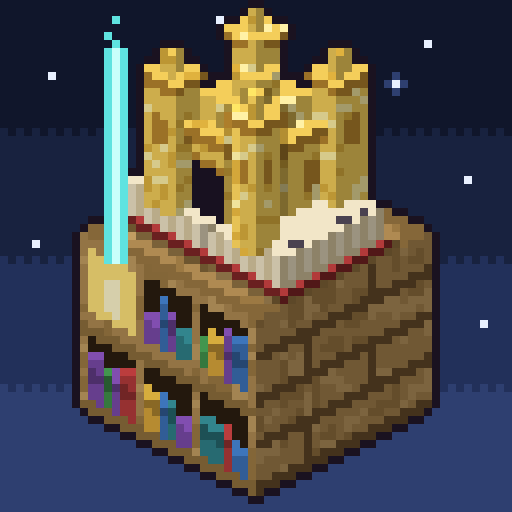
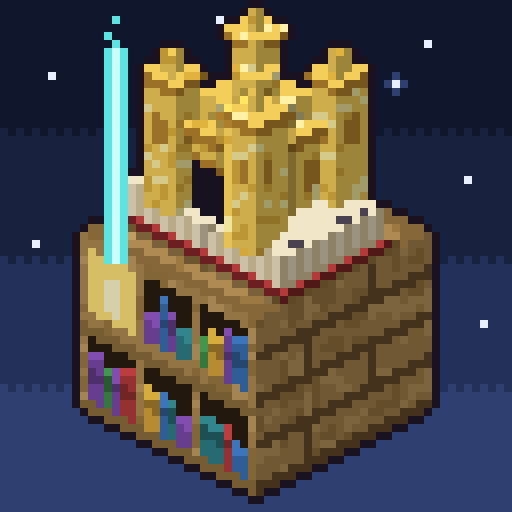
图标：前塔加粗到 3 格，塔帽露出来，和其他三座看起来一样大

Changed region(s): [[0.4062, 0.1562, 0.5938, 0.5]]

diff --git a/art/icon/IconArt.java b/art/icon/IconArt.java
@@ -103,13 +103,17 @@ public final class IconArt {
 		boxes.add(new Box(7.5, 7.5, z + 12, 8.5, 8.5, z + 15, gold));          // 顶尖
 		// 四座角塔：主殿四个角各一座
 		for (double[] c : new double[][]{{3, 3}, {10.5, 3}, {3, 10.5}, {10.5, 10.5}}) {
-			double x = c[0], y = c[1];
+			double x = c[0], y = c[1], w = 2.5;
 			if (x > 10 && y > 10) {
-				frontTower = boxes.size(); // 前角这座挡在主殿正前方，要和后面描一道分界（见 separateFrontTower）
+				frontTower = boxes.size(); // 前角这座挡在主殿正前方，要和后面区分开（见 separateFrontTower）
+				// 它的塔帽叠在同样是金色的屋顶前面，轮廓看不出来，同样大小会显得细：加粗一点，外角不动、往里长
+				w = 3;
+				x = y = 13 - w;
 			}
-			boxes.add(new Box(x, y, z, x + 2.5, y + 2.5, z + 11, IconArt::tower));
-			boxes.add(new Box(x - 0.25, y - 0.25, z + 11, x + 2.75, y + 2.75, z + 12, IconArt::trim));
-			boxes.add(new Box(x + 0.75, y + 0.75, z + 12, x + 1.75, y + 1.75, z + 14, gold));
+			double m = (w - 1) / 2; // 顶尖居中
+			boxes.add(new Box(x, y, z, x + w, y + w, z + 11, IconArt::tower));
+			boxes.add(new Box(x - 0.25, y - 0.25, z + 11, x + w + 0.25, y + w + 0.25, z + 12, IconArt::trim));
+			boxes.add(new Box(x + m, y + m, z + 12, x + m + 1, y + m + 1, z + 14, gold));
 		}
 	}
 
@@ -287,10 +291,6 @@ public final class IconArt {
 		// 前塔右下的塔脚被外侧高出来的那叠书页挡掉一格，轮廓看着像缺了一块：补成旁边那格的塔身颜色
 		px[30][33] = px[30][32];
 		owner[30][33] = owner[30][32];
-		String mode = System.getProperty("sep", "shadow+edge");
-		if (mode.equals("none")) {
-			return;
-		}
 		boolean[][] shadow = new boolean[N][N];
 		boolean[][] edge = new boolean[N][N];
 		for (int y = 0; y < N; y++) {
@@ -307,7 +307,7 @@ public final class IconArt {
 		for (int y = 0; y < N; y++) {
 			for (int x = 0; x < N; x++) {
 				if (shadow[y][x]) px[y][x] = goldStep(px[y][x], 0.8);
-				if (edge[y][x] && mode.contains("edge")) px[y][x] = goldStep(px[y][x], 1.12);
+				if (edge[y][x]) px[y][x] = goldStep(px[y][x], 1.12);
 			}
 		}
 	}
